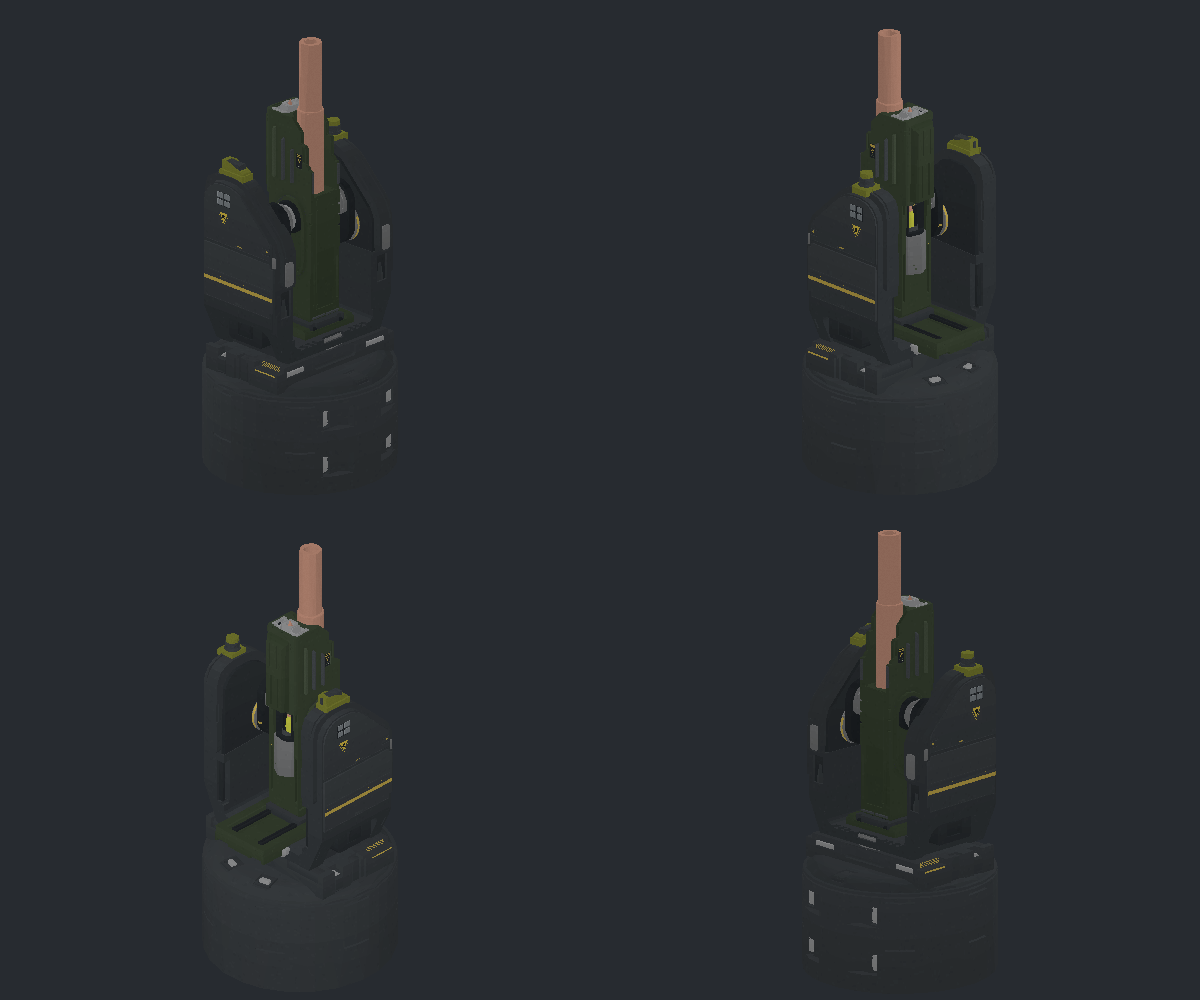
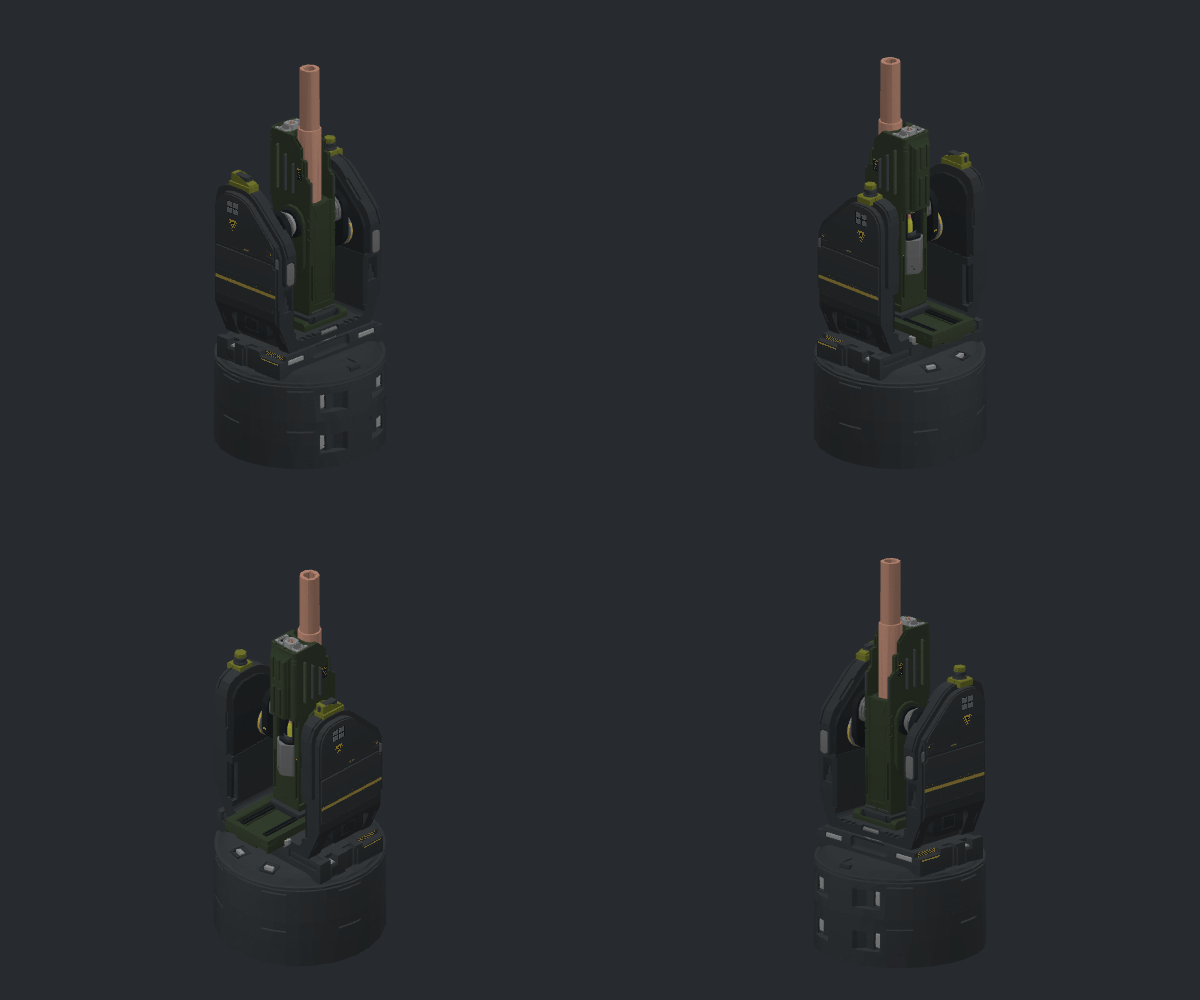
Fix invalid turret cap polygons and restore flame barrel geometry

diff --git a/art/models/炮台减面修正版/说明.md b/art/models/炮台减面修正版/说明.md
@@ -1,7 +1,9 @@
-炮台减面修正版
+炮台减面修正版（几何修复）
 
-共用底座、侧板和支架使用激光炮台已补面版本。火焰炮台保留独立侧板图案，背角两处格栅改用平面贴图。保留原骨架、挂点与动画。
+修复机枪、加特林、机炮与火箭炮台的八边封盖：拆成有效三角面，补齐原先无法显示的转轴等表面。
+火焰炮台的隔热炮管、前端喷嘴、根部法兰、点火导轨与软管恢复减面前的准确轮廓，修复开槽和端部几何扭曲。其余减面部件及平面格栅保留。
+共用底座、侧板与支架继续使用已修复的减面版本，火焰炮台独立图案保留；特斯拉电塔附独立模型。
+原骨架、挂点和动画保持一致，贴图已内嵌。项目标题附“几何修复”便于区分。
 
-特斯拉电塔使用独立结构，本次随包附上已有减面版本供统一查看。
-
-附四方向静态预览。模型为 Blockbench 格式，贴图内嵌。本包用于模型外观检查，尚未替换游戏发行包。
+四视图和局部近景均由 Blockbench 原生渲染生成，并核对所有网格面的实际显示。
+本次为模型交付，未更新游戏发行包。
